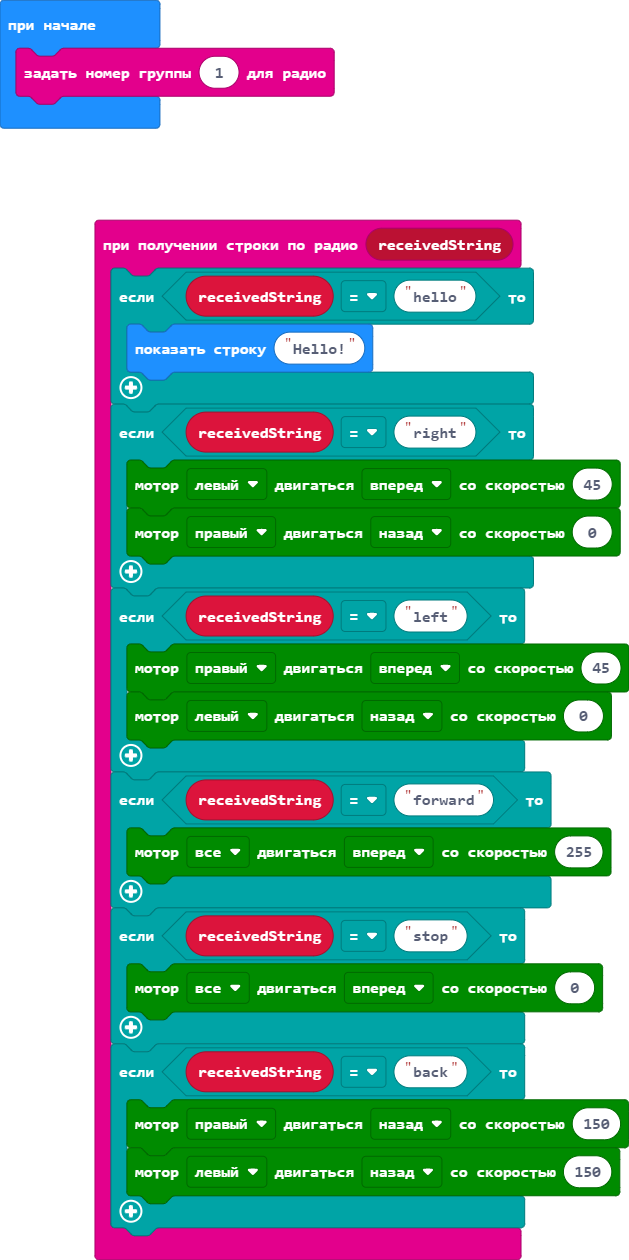
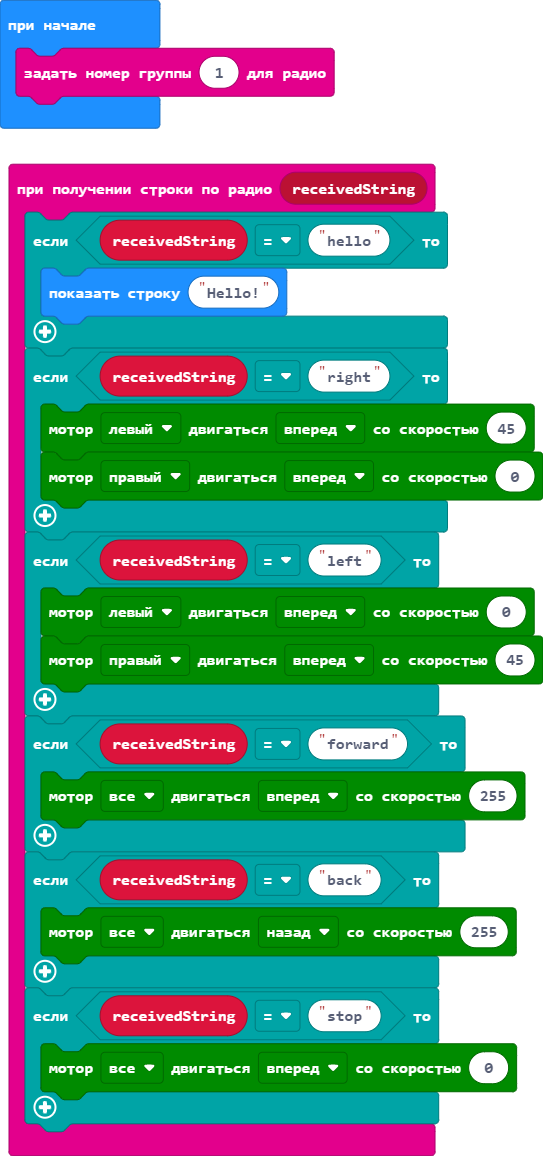
Обновить main.blocks, main.ts

diff --git a/main.ts b/main.ts
@@ -4,21 +4,20 @@ radio.onReceivedString(function (receivedString) {
     }
     if (receivedString == "right") {
         maqueen.motorRun(maqueen.Motors.M1, maqueen.Dir.CW, 45)
-        maqueen.motorRun(maqueen.Motors.M2, maqueen.Dir.CCW, 0)
+        maqueen.motorRun(maqueen.Motors.M2, maqueen.Dir.CW, 0)
     }
     if (receivedString == "left") {
+        maqueen.motorRun(maqueen.Motors.M1, maqueen.Dir.CW, 0)
         maqueen.motorRun(maqueen.Motors.M2, maqueen.Dir.CW, 45)
-        maqueen.motorRun(maqueen.Motors.M1, maqueen.Dir.CCW, 0)
     }
     if (receivedString == "forward") {
         maqueen.motorRun(maqueen.Motors.All, maqueen.Dir.CW, 255)
     }
+    if (receivedString == "back") {
+        maqueen.motorRun(maqueen.Motors.All, maqueen.Dir.CCW, 255)
+    }
     if (receivedString == "stop") {
         maqueen.motorRun(maqueen.Motors.All, maqueen.Dir.CW, 0)
-    }
-    if (receivedString == "back") {
-        maqueen.motorRun(maqueen.Motors.M2, maqueen.Dir.CCW, 150)
-        maqueen.motorRun(maqueen.Motors.M1, maqueen.Dir.CCW, 150)
     }
 })
 radio.setGroup(1)
